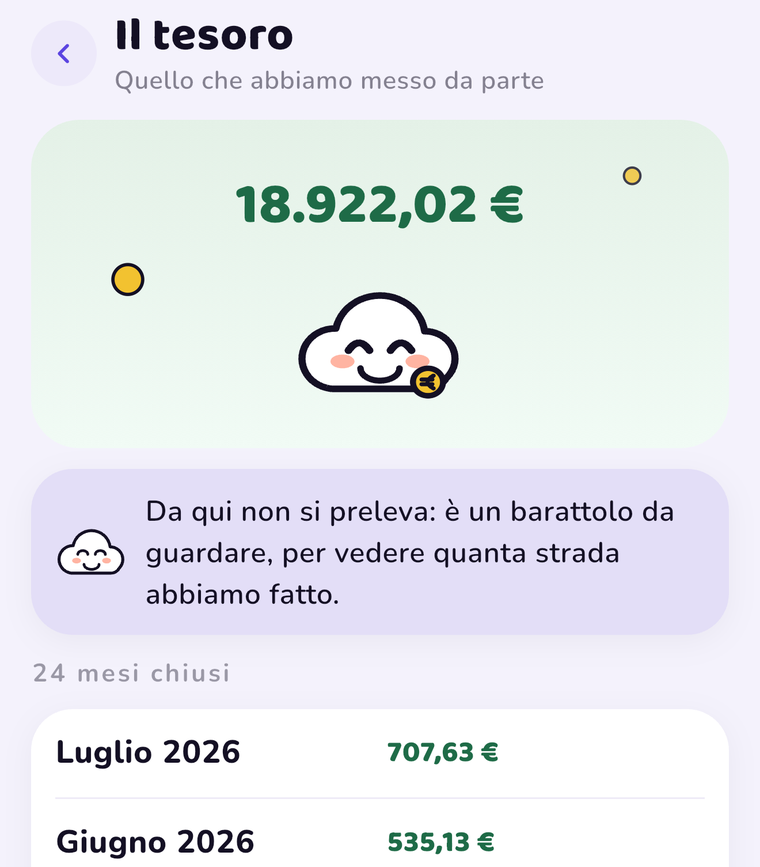
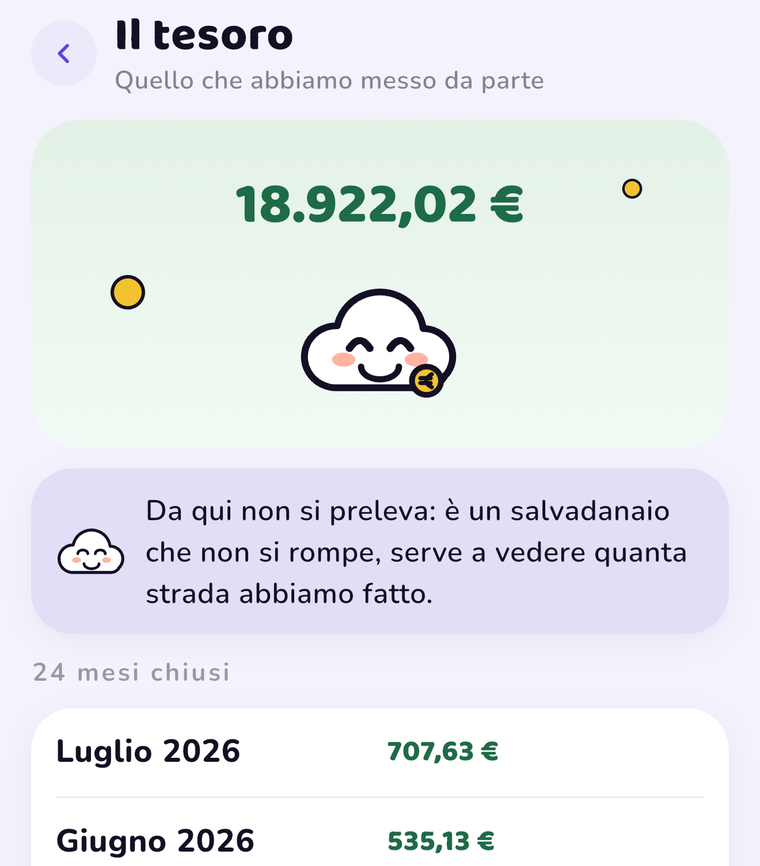
Il tesoro si apre con il salvadanaio, non con un barattolo
L'icona in testata è un salvadanaio disegnato nella lingua della
mascotte; i testi che dicevano «barattolo» lo seguono, e lo scatto
della schermata del tesoro è rifatto sulla frase nuova.

diff --git a/supporto.html b/supporto.html
@@ -286,7 +286,7 @@ figcaption { margin-top: 8px; font: 600 12.5px/1.45 Nunito, sans-serif; color: v
     <p>Le entrate che imposti valgono per il mese in corso e per quelli futuri, se ricorrenti. I mesi già chiusi restano con le cifre che avevano allora, così aggiungere un'entrata oggi non riscrive l'analisi di quelli passati.</p>
 
     <h3>Che cos'è il tesoro?</h3>
-    <p>È quanto hai messo da parte, mese dopo mese: ogni mese chiuso in positivo lascia lì il suo avanzo, e i mesi in cui hai sforato se ne prendono un pezzo. Lo apri con l'icona del barattolo, in alto nella schermata principale.</p>
+    <p>È quanto hai messo da parte, mese dopo mese: ogni mese chiuso in positivo lascia lì il suo avanzo, e i mesi in cui hai sforato se ne prendono un pezzo. Lo apri con l'icona del salvadanaio, in alto nella schermata principale.</p>
     <figure>
       <img src="img/tesoro.png" alt="La schermata del tesoro: il totale messo da parte, la nuvoletta con la monetina e l'elenco dei mesi chiusi" loading="lazy">
       <figcaption>Ogni mese chiuso compare nell'elenco: in verde quelli in positivo, in rosso quelli in cui hai sforato.</figcaption>

diff --git a/index.html b/index.html
@@ -473,7 +473,7 @@ footer ul { display: flex; gap: 22px; flex-wrap: wrap; }
       <div class="feature">
         <span class="tag">Tesoro</span>
         <h3>Quello che avanza resta</h3>
-        <p>Ogni mese che chiude in positivo lascia il suo avanzo nel tesoro; i mesi in cui hai sforato se ne prendono un pezzo. Non è un conto su cui si opera: è un barattolo da guardare per vedere la strada fatta.</p>
+        <p>Ogni mese che chiude in positivo lascia il suo avanzo nel tesoro; i mesi in cui hai sforato se ne prendono un pezzo. Non è un conto su cui si opera: è un salvadanaio che non si rompe, e serve a vedere la strada fatta.</p>
       </div>
       <div class="feature">
         <span class="tag">Valute</span>
